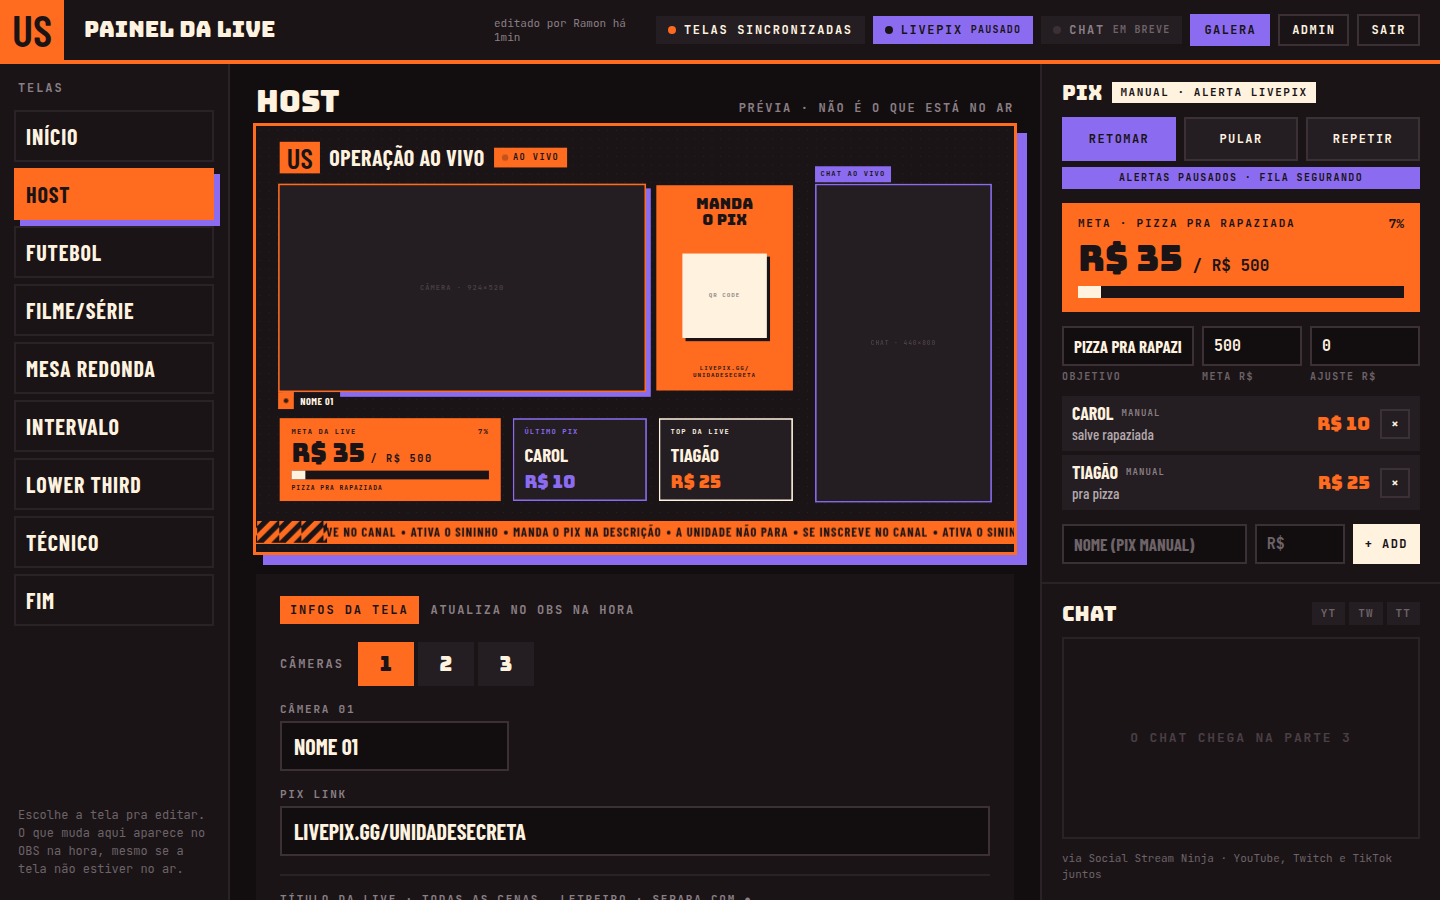
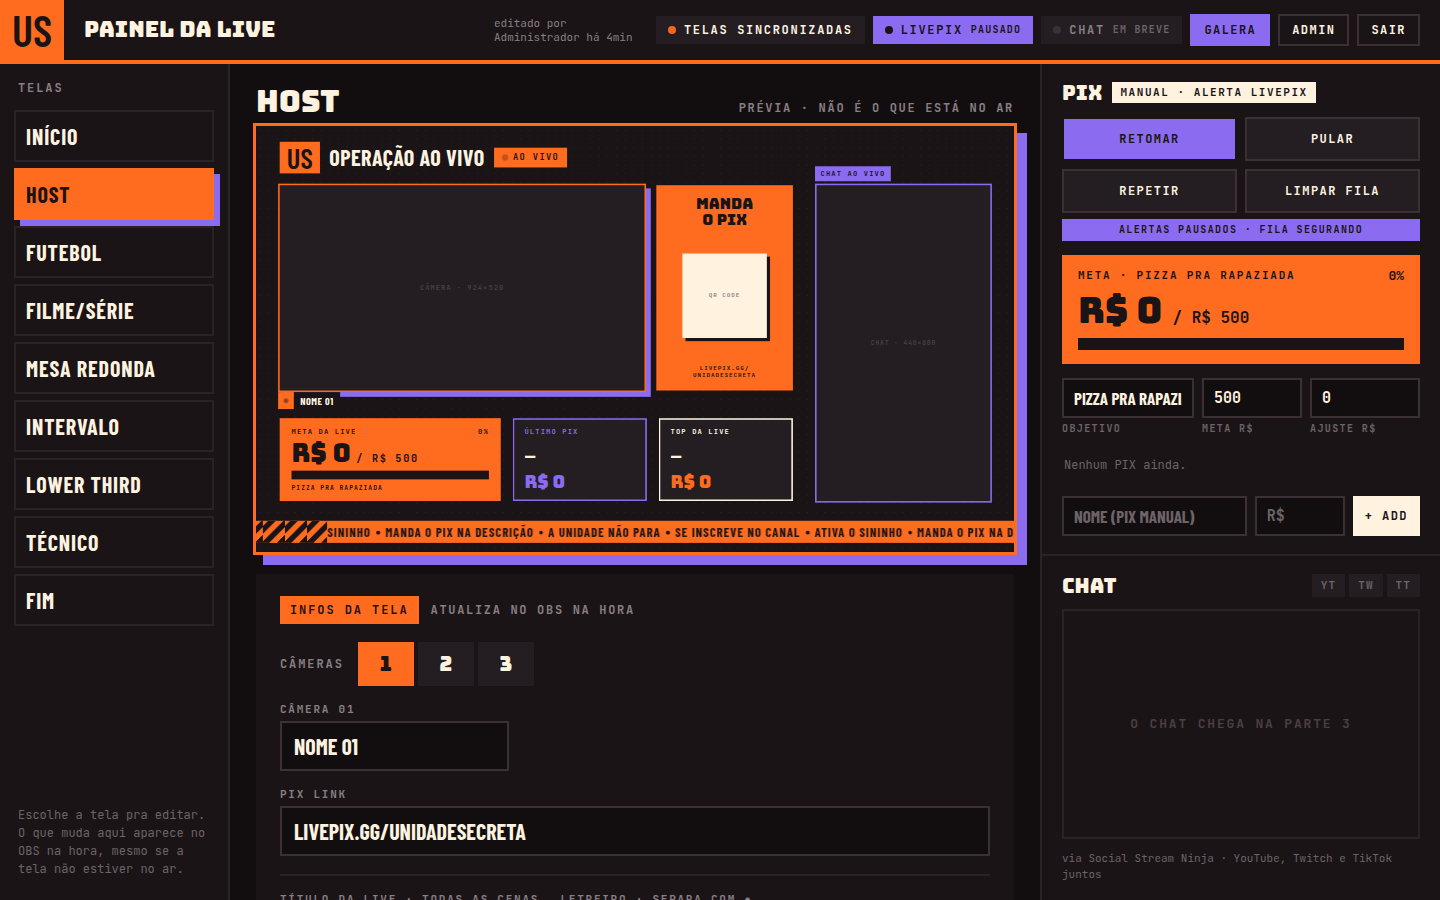
docs: prints e notas do teste real dos controles LivePix

diff --git a/CLAUDE.md b/CLAUDE.md
@@ -60,7 +60,8 @@ Há também 11 achados **menores**, não bloqueantes, listados no relatório (it
 
 - API do LivePix não devolve URL de áudio (mensagem de voz/IA): o alerta com som fica com o widget do LivePix; o painel só controla (decisão do usuário).
 - Feito (commit `b49be6a`): `src/servidor/livepix.ts` + `api/livepix/{controls,skip,replay}.ts` (funções da Vercel, Web handlers), OAuth client_credentials com escopo `controls`, token em cache, confere membro da equipe pelo JWT do Supabase. Dev: plugin no `vite.config.ts` atende `/api/livepix/*`. Painel: `useControlesLivePix` + `ControlesLivePix` na coluna PIX; selo LIVEPIX do topo violeta quando pausado.
-- **Pendente:** usuário criar a aplicação no LivePix e pôr `LIVEPIX_CLIENT_ID`/`LIVEPIX_CLIENT_SECRET` na Vercel (e no `.env.local` pra testar local). Ainda não testado contra o LivePix real.
+- **Trocado (2026-09-29, commits `d896343`..):** sem OAuth. Usa os links de "Controles de Alertas" do LivePix (`LIVEPIX_URL_{PAUSAR,RETOMAR,PULAR,REPETIR,LIMPAR}`, só servidor, POST). Rotas `api/livepix/{pausar,retomar,pular,repetir,limpar}`. Links não dizem o estado: migration 0006 (`livepix_controle`, rodada em produção) guarda o último comando, Realtime pra todos; selo do topo mostra o último comando. 4º botão LIMPAR FILA com confirmação, grade 2×2. Teste real `scripts/livepix-real.mjs` passou (dois painéis).
+- Na Vercel: criar as 5 `LIVEPIX_URL_*` ao publicar.
 
 ## Telas novas (2026-09-28, ~19:30) — histórico
 
